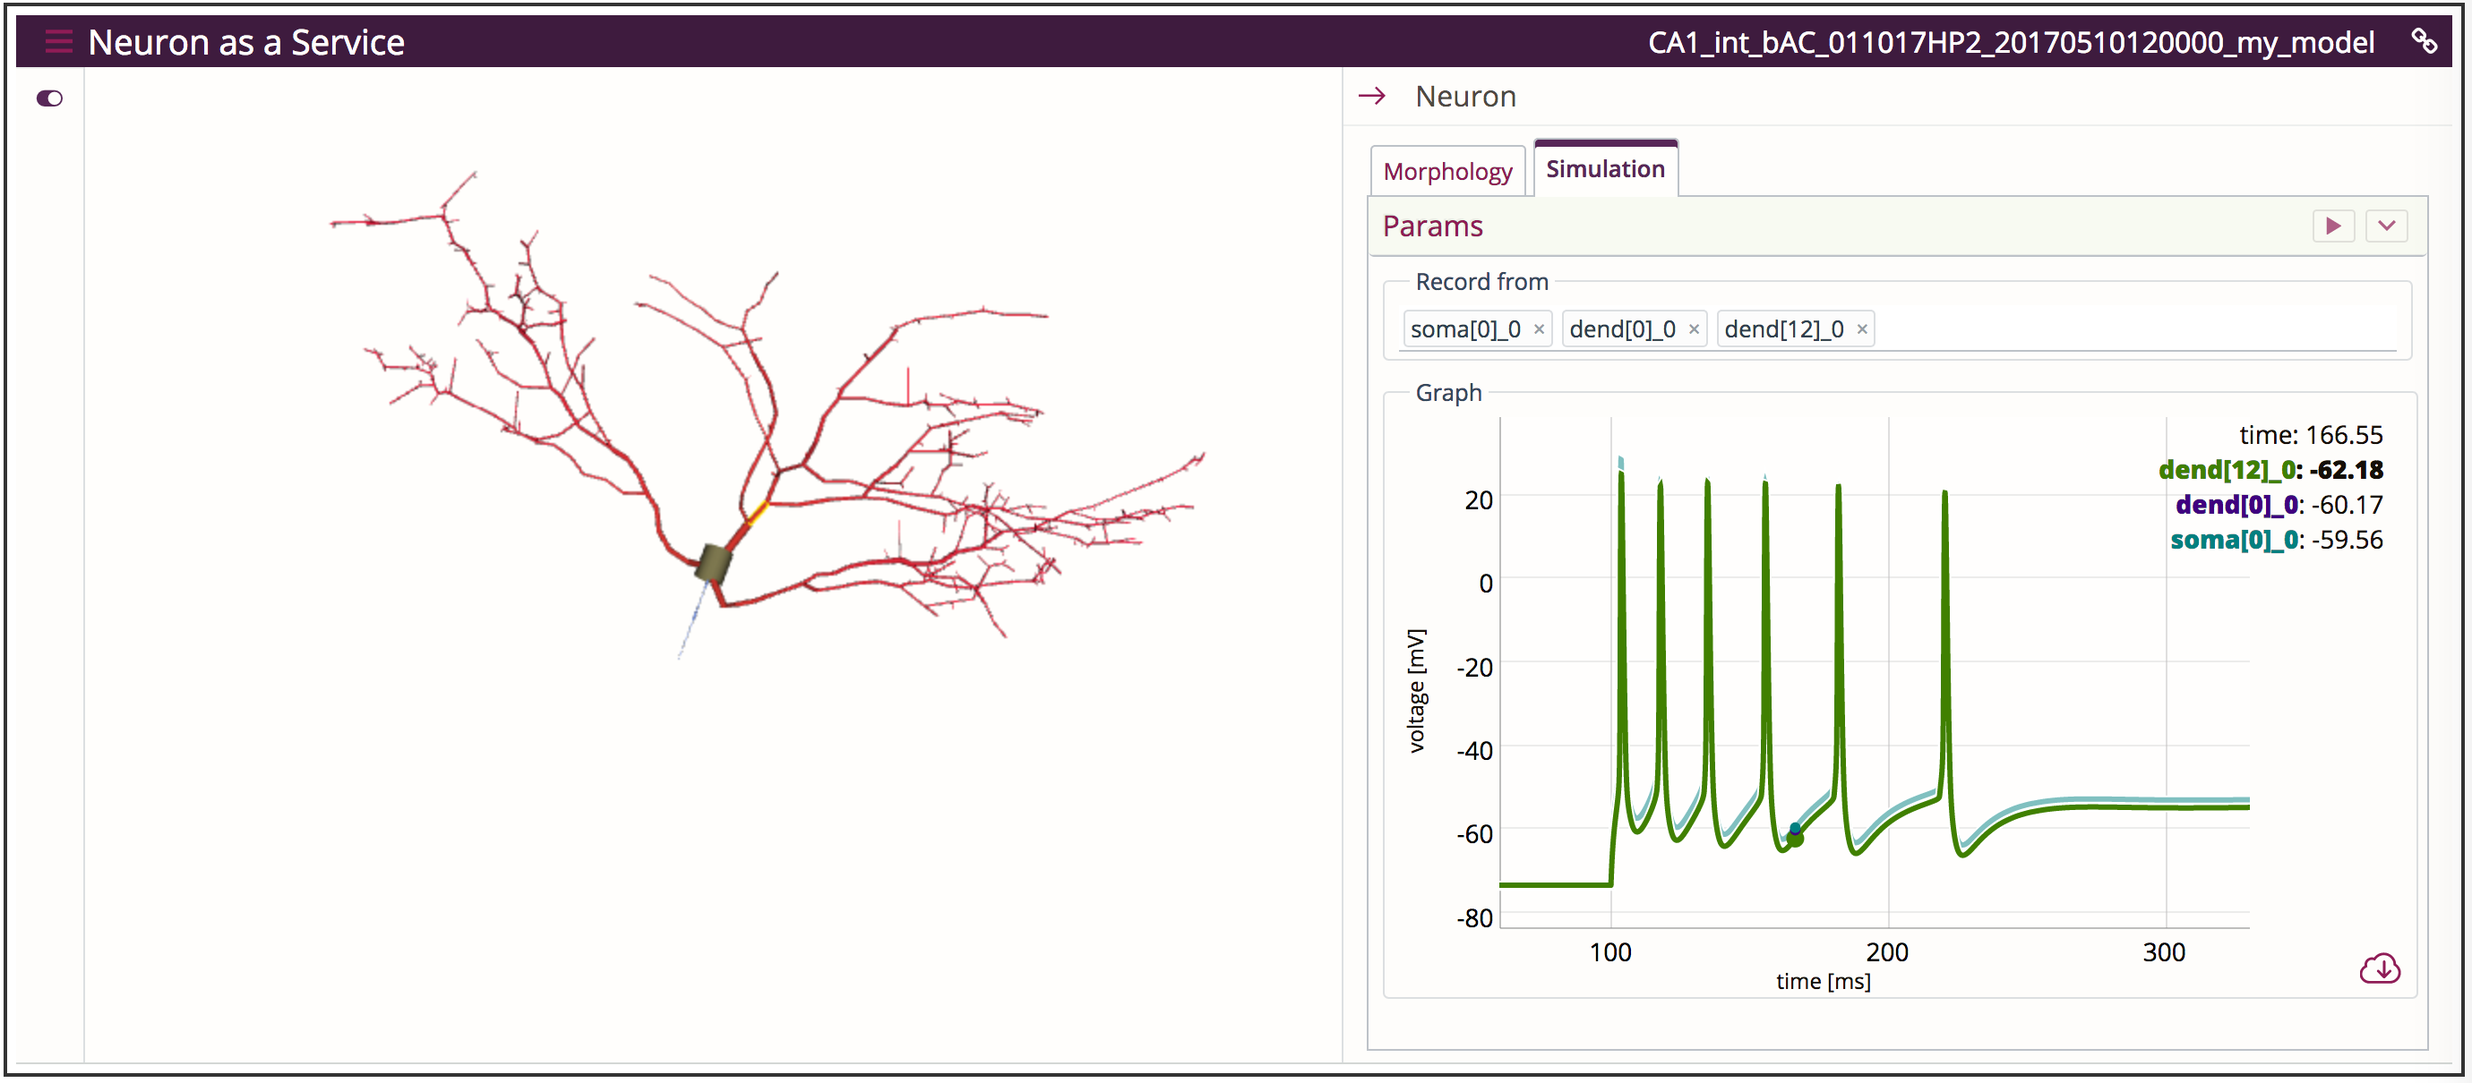
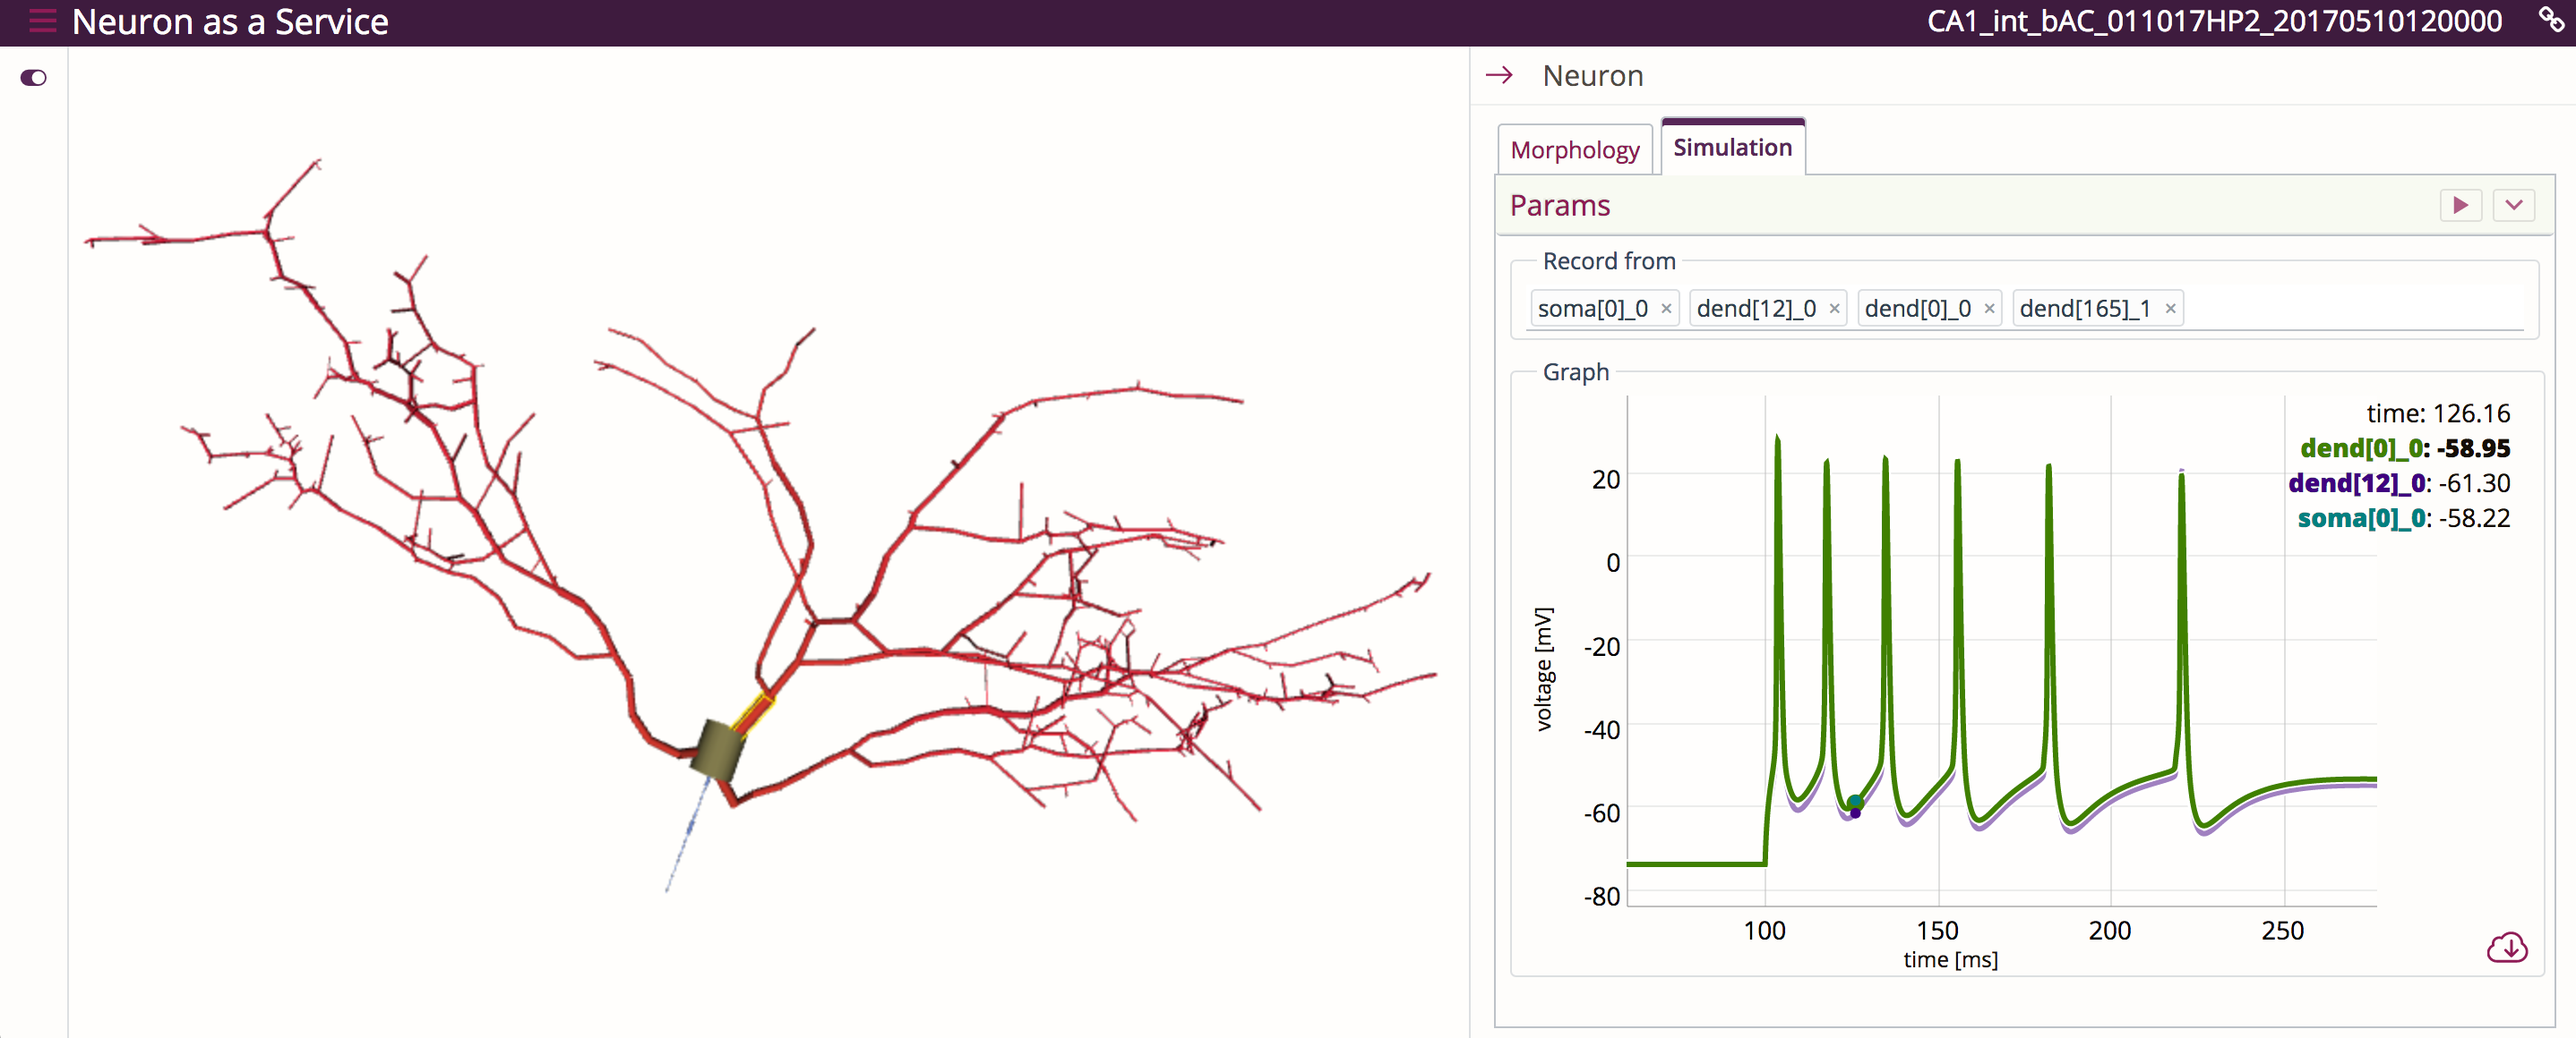
finalized first version of 'Hodgkin-Huxley Neuron Builder' web-application guidebook pages

diff --git a/source/highly_integrated_workflows/p1_hh_neuron_builder/p1_hh_neuron_builder.rst b/source/highly_integrated_workflows/p1_hh_neuron_builder/p1_hh_neuron_builder.rst
@@ -1,8 +1,8 @@
 .. _hh_neuron_builder:
 
-############################# 
-Hodgkin Huxley Neuron Builder
-#############################
+#######################################
+Hodgkin Huxley Neuron Builder (CDP2-P1)
+#######################################
 
 ******** 
 Overview 
@@ -24,7 +24,6 @@ resources or uploading his own files.
 The web-application homepage (see figure below) allow the user to initiate a new
 workflow or select a workflow previously saved in the current collab storage.
 
-
 |
 
 .. container:: bsp-container-center
@@ -37,8 +36,7 @@ workflow or select a workflow previously saved in the current collab storage.
 
 After initiating a new workflow, the user is provided with two panels allowing
 to go through the processes of "Cell Optimization" and "Single Cell Simulation"
-respectively. A third panel, the "Optimization settings", is provided for the
-insertion of the optimization parameters (see figure below).
+respectively (see figure below).
 
 |
 
@@ -77,7 +75,7 @@ optimization parameters (see figure below).
   HBP or from data upload by the user himself. For a detailed explanation of the
   Feature Extraction GUI, please refer to the dedicated page of this guidebook
   (:ref:`efel_gui`). Alternatively, the user can upload his own
-  **features.json** and **protocols.json** files through the "Upload files"
+  *features.json* and *protocols.json* files through the "Upload files"
   button.
 
 |
@@ -92,14 +90,14 @@ optimization parameters (see figure below).
 
 * The model to be optimized is chosen among a dataset displayed to the user
   after clicking the "Choose from database" button. The dataset is made up of
-  `NEURON <https://www.neuron.yale.edu/>`_ based models previously optimized via
-  a different set of electrophysiological features. When choosing the model, the
-  user is provided with two images representing the reconstructed morphology of
-  the neuron and an example of the simulated activity of the model (see figure
+  `NEURON <https://www.neuron.yale.edu/>`_ based models.
+  When choosing the model, the user is provided with two images representing the reconstructed morphology of
+  the neuron and an example of the simulated activity of the model, after it has
+  been optimized via a different set of electrophysiological features (see figure
   below). Based on the neuron/activity properties the user chooses a model which will be
   optimized by using the features extracted/uploaded in the previous step. The
   model parameters will be optimized via the `BluePyOpt
-  <https://github.com/BlueBrain/BluePyOpt>`_ tool via an optimization procedure
+  <https://github.com/BlueBrain/BluePyOpt>`_ tool through an optimization procedure
   based on genetic algorithm. For a complete reference to the BluePyOpt, please
   refer to the original article at this `link. <https://www.frontiersin.org/articles/10.3389/fninf.2016.00017/full>`_
 
@@ -116,10 +114,10 @@ optimization parameters (see figure below).
 * Before launching the optimization, the user must set the optimization
   parameters by clicking the "Set parameters/Choose HPC" button of the
   "Optimization settings" panel. A form is presented to the user (see image
-  below), to be filled with: i) parameters concerning the genetic algorithm
-  namely the maximum number of generation the user want
-  to adopt as well as the number of offspring to be considered; ii) system
-  parameters for the optimization run, namely the number of node and cores to be
+  below), to be filled with: i) parameters concerning the genetic algorithm,
+  namely the maximum number of generation the user wants
+  to adopt as well as the number of offsprings to be considered; ii) system
+  parameters for the optimization run, namely the number of nodes and cores to be
   reserved on the hpc system and the maximum time the process is allowed to be
   running for; iii) the hpc system to be used.
 
@@ -161,7 +159,7 @@ submission with the same workflow id (see figure below).
 |
 
 Both the feature and the optimization files can be removed from the pipeline
-and/or downloaded by the user on the local machine through the "Delete" and "Download"
+and/or downloaded by the user on his local machine through the "Delete" and "Download"
 buttons respectively.
 
 
@@ -211,14 +209,25 @@ figures below).
 
 
 
-Alternatively, the user can upload a **.zip** package containing the files needed for the
-simulation, through the upload button.
+Alternatively, the user can upload a *.zip* package containing the files needed for the
+simulation, through the upload button. For an example of how the *.zip* file
+content must be structured, please refer to the following `link <https://github.com/lbologna/bsp_data_repository/raw/master/optimizations/CA1_int_bAC_011017HP2_20170510120000/CA1_int_bAC_011017HP2_20170510120000.zip>`_.
 
 Once the model files are integrated into the pipeline, the simulation can be run
 by clicking the "Run Simulation" button. The model is fed to the "Neuron As A Service"
 web-application, integrated into the neuron builder (see figure below), which
-allow the user to set visualize the morphology of the chosen model (both in 3D
+allow the user to visualize the morphology of the chosen model (both in 3D
 and as a dendogram) and set the simulation run parameters.
+
+|
+
+.. container:: bsp-container-center
+
+    .. image:: images/hhnb_naas_sim.png 
+        :scale: 30% 
+        :align: right
+
+|
 
 For further details on the "Neuron As A Service" application, please refer to
 the dedicated page of this guidebook (:ref:`single_cell_clamp`).
